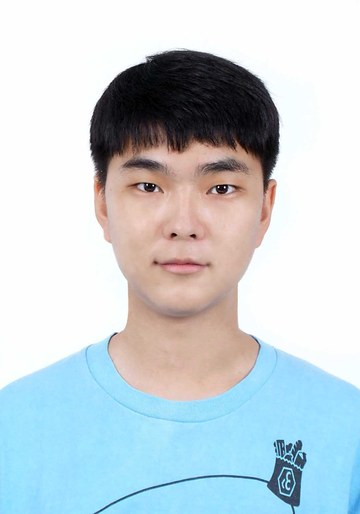
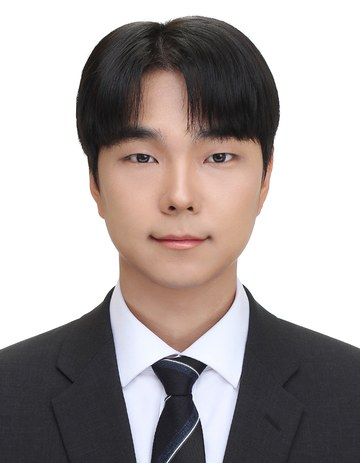
증명사진 교체, 활동 시간순 재구성

diff --git a/index.html b/index.html
@@ -48,7 +48,12 @@
   .head h3{min-width:0; overflow-wrap:break-word}
   h3{font-size:18px; margin:0; letter-spacing:-0.02em}
   .when{font-size:13.5px; color:var(--muted); white-space:nowrap}
-  .role{font-size:14px; color:var(--accent); margin-top:3px}
+  .role{font-size:14px; color:var(--muted); margin-top:3px}
+  .repo{display:inline-flex; align-items:center; gap:5px; margin-top:9px;
+        font-size:13.5px; color:var(--accent); text-decoration:none;
+        border:1px solid var(--line); border-radius:6px; padding:3px 10px}
+  .repo:hover{border-color:var(--accent)}
+  .repo svg{width:13px; height:13px; fill:currentColor; flex:0 0 13px}
   .item p{margin:9px 0 0; overflow-wrap:break-word}
   ul{margin:9px 0 0; padding-left:19px}
   li{margin-bottom:5px}
@@ -78,7 +83,7 @@
 <div class="wrap">
 
 <header>
-  <img class="photo" src="photo.jpg" alt="전성민" width="360" height="514">
+  <img class="photo" src="photo.jpg" alt="전성민" width="360" height="463">
   <div class="bio">
     <h1>전성민</h1>
     <div class="edu">
@@ -101,59 +106,38 @@
 <p class="intro">
 서비스를 만드는 일과 그 서비스를 멈추지 않게 하는 일을 함께 해 왔습니다.
 3인 팀에서 인증·보안과 배포 인프라를 맡아 AWS에서 6개월째 돌아가는 백엔드를 유지하고 있고,
-그 전에는 확산 모델로 생성 결과를 원하는 만큼만 바꾸도록 제약하는 문제와,
+그 전에는 확산 모델로 두 실제 사진 사이에서 구조는 두고 정체성만 바꾸는 문제와,
 모바일 엣지 환경에서 모델을 가볍게 만들어 지연을 줄이는 연구를 다뤘습니다.
 </p>
 
-<h2>프로젝트</h2>
+<h2>활동</h2>
 
 <div class="item">
   <div class="head">
-    <h3>Cellfie — 개인화 피부 코칭 서비스</h3>
-    <span class="when">2026.05 – 진행 중</span>
+    <h3>Multiphysics Structure &amp; Systems Engineering Lab · 학부 인턴</h3>
+    <span class="when">2023.12 – 2024.03</span>
   </div>
-  <div class="role">AI·SW Maestro · 3인 · 담당: 인증·보안 / 배포·운영 인프라 / DB 스키마</div>
-  <p>
-    사진 한 장과 문진으로 피부를 분석해 성분·루틴을 추천하는 모바일 서비스입니다.
-    AWS EC2에 Docker Compose로 다섯 개 컨테이너를 올려 운영 중이고, 저는 모델을 만드는 쪽이 아니라
-    그 모델이 계속 응답하게 만드는 쪽을 맡았습니다.
-  </p>
+  <div class="role">서울대학교</div>
   <ul>
-    <li>JWT 발급·검증, 소셜 로그인 3종, 보안 헤더 필터를 단독 작성. 예외 발생 시 인증을 통과하던 필터를 fail-closed로 수정</li>
-    <li>blue-green 무중단 배포 — 헬스체크를 통과하지 못한 버전은 트래픽을 받지 않습니다. 이 관문이 스키마 오류 두 건을 사용자 도달 전에 차단했습니다</li>
-    <li>GitHub Actions에서 SSH 대신 AWS SSM으로 배포를 트리거. 보안 그룹의 22번 포트를 열지 않기 위한 선택</li>
-    <li>매일 백업 후 복원 무결성까지 검증, 요청 단위 추적 ID로 사용자 제보를 로그에서 역추적</li>
-    <li>초기 21개 테이블 마이그레이션 설계. 운영 프로파일을 스키마 검증 모드로 고정해 코드와 DB가 어긋나면 서버가 기동하지 않도록 구성</li>
+    <li>수문·구조 데이터를 입력으로 홍수 피해 규모를 예측하는 머신러닝 모델 제안</li>
   </ul>
   <div class="chips">
-    <span class="chip">Java</span><span class="chip">Spring Boot</span><span class="chip">MySQL</span>
-    <span class="chip">Flyway</span><span class="chip">AWS EC2 · S3 · SSM</span><span class="chip">Docker</span>
-    <span class="chip">nginx</span><span class="chip">GitHub Actions</span><span class="chip">FastAPI</span>
+    <span class="chip">Python</span><span class="chip">머신러닝</span>
   </div>
 </div>
 
 <div class="item">
   <div class="head">
-    <h3>생성형 AI 이미지 편집 파이프라인</h3>
-    <span class="when">2025.10 – 2025.12</span>
+    <h3>Networked Computing Lab · 학부 인턴</h3>
+    <span class="when">2024.07 – 2025.02</span>
   </div>
-  <p>
-    실제 사진에서 특정 개념 하나만 교체하고 나머지는 그대로 두는 Stable Diffusion 편집 파이프라인입니다.
-    프롬프트만으로 편집하면 대상 객체와 함께 배경과 구도까지 흔들리는데, 객체의 정체성과 그 객체가 놓인
-    공간 구조가 잠재 공간에서 분리되어 있지 않기 때문입니다.
-  </p>
+  <div class="role">서울대학교</div>
   <ul>
-    <li>Textual Inversion으로 교체할 개념의 임베딩을 학습해 정체성을 별도 토큰으로 분리</li>
-    <li>Null-text Inversion으로 원본을 되돌릴 수 있는 잠재 궤적을 확보해 공간 구조를 보존</li>
-    <li>SLERP 잠재 공간 보간과 어텐션 마스킹으로 편집 영향 범위를 대상 영역에 한정</li>
+    <li>모바일 엣지 GPU 워크로드를 대상으로 모델 이진화 — 연산 정밀도를 낮추며 정확도 손실과 지연 변화를 측정</li>
+    <li>여러 기기를 묶는 모바일 클러스터링, GPU 선점 스케줄링 실험</li>
   </ul>
-  <p>
-    모델이 무언가를 생성하게 만드는 일은 어렵지 않았습니다. 어려웠던 것은 생성 범위를 신뢰할 수 있을 만큼
-    좁히는 일과, 좁혀졌는지를 판단할 기준을 세우는 일이었습니다.
-  </p>
   <div class="chips">
-    <span class="chip">Python</span><span class="chip">PyTorch</span><span class="chip">Diffusers</span>
-    <span class="chip">Diffusion</span><span class="chip">Attention Masking</span>
+    <span class="chip">모델 경량화</span><span class="chip">GPU 스케줄링</span><span class="chip">엣지 추론</span>
   </div>
 </div>
 
@@ -162,20 +146,16 @@
     <h3>Scheme 인터프리터</h3>
     <span class="when">2024.12</span>
   </div>
-  <p>
-    자료구조 과제로 C++에서 Scheme 인터프리터를 1,000줄 규모로 구현했습니다.
-    입력을 토큰으로 쪼개고, 심볼은 체이닝 해시 테이블에, 리스트는 좌·우 자식 인덱스를 가진 노드 배열에 담아
-    cons 구조를 만든 뒤 eval이 그 배열을 재귀로 타고 내려갑니다.
-  </p>
-  <p>
-    가장 애를 먹은 것은 리스트 안에 리스트가 연달아 오는 입력이었습니다. 재귀로 안쪽을 읽고 돌아오면
-    그 서브트리와 다음 노드를 잇는 링크가 비어 있는데, 재귀 안에서는 뒤에 형제가 더 올지 알 수 없어
-    그 자리에서 채울 수 없었습니다. 돌아온 직후라는 사실을 플래그로 남겨 두었다가 다음 여는 괄호에서
-    이전 부모의 링크를 채우도록 해결했습니다.
-  </p>
+  <div class="role">C++ · 약 1,000줄</div>
+  <ul>
+    <li>토크나이저 → 체이닝 해시 심볼 테이블 → 좌·우 자식 인덱스 노드 배열의 cons 구조 → 재귀 eval</li>
+    <li>리스트가 연달아 중첩될 때 형제 노드를 잇는 링크가 비는 문제를, 재귀 복귀 시점을 플래그로 남겨 다음 여는 괄호에서 부모 링크를 채우는 방식으로 해결</li>
+    <li>define, cons, symbol?, number?, null? 구현 및 입력 문장 복원 출력</li>
+  </ul>
   <div class="chips">
     <span class="chip">C++</span><span class="chip">해시 테이블</span><span class="chip">재귀 파서</span>
   </div>
+  <a class="repo" href="https://github.com/jsm5792/Data_Structure"><svg viewBox="0 0 16 16" aria-hidden="true"><path d="M8 0C3.58 0 0 3.58 0 8c0 3.54 2.29 6.53 5.47 7.59.4.07.55-.17.55-.38 0-.19-.01-.82-.01-1.49-2.01.37-2.53-.49-2.69-.94-.09-.23-.48-.94-.82-1.13-.28-.15-.68-.52-.01-.53.63-.01 1.08.58 1.23.82.72 1.21 1.87.87 2.33.66.07-.52.28-.87.51-1.07-1.78-.2-3.64-.89-3.64-3.95 0-.87.31-1.59.82-2.15-.08-.2-.36-1.02.08-2.12 0 0 .67-.21 2.2.82.64-.18 1.32-.27 2-.27s1.36.09 2 .27c1.53-1.04 2.2-.82 2.2-.82.44 1.1.16 1.92.08 2.12.51.56.82 1.27.82 2.15 0 3.07-1.87 3.75-3.65 3.95.29.25.54.73.54 1.48 0 1.07-.01 1.93-.01 2.2 0 .21.15.46.55.38A8.01 8.01 0 0 0 16 8c0-4.42-3.58-8-8-8z"/></svg>Data_Structure</a>
 </div>
 
 <div class="item">
@@ -183,37 +163,53 @@
     <h3>Quantum AI Contest — 1위</h3>
     <span class="when">2025.07 – 2025.08</span>
   </div>
-  <p>
-    FashionMNIST 분류를 위한 하이브리드 양자·고전 모델을 설계했습니다. 고전 섀도우와 이항정리를 이용해
-    양자 회로 측정으로부터 임의 유리수 α에 대한 Rényi 엔트로피를 추정하고 검증했습니다.
-  </p>
-</div>
-
-<h2>연구 경험</h2>
-
-<div class="item">
-  <div class="head">
-    <h3>Networked Computing Lab · 학부 인턴</h3>
-    <span class="when">2024.07 – 2025.02</span>
+  <ul>
+    <li>FashionMNIST 분류를 위한 하이브리드 양자·고전 모델 설계</li>
+    <li>고전 섀도우와 이항정리를 이용해 양자 회로 측정으로부터 임의 유리수 α에 대한 Rényi 엔트로피 추정 및 검증</li>
+  </ul>
+  <div class="chips">
+    <span class="chip">PyTorch</span><span class="chip">양자 회로</span><span class="chip">엔트로피 추정</span>
   </div>
-  <div class="role">서울대학교</div>
-  <p>
-    모바일 엣지 GPU에서 딥러닝 워크로드를 돌릴 때의 지연과 신뢰성 문제를 다뤘습니다.
-    모델 이진화로 연산 정밀도를 낮추며 정확도 손실을 어디까지 감수할 수 있는지 측정하고,
-    모바일 클러스터링과 GPU 선점 기법을 함께 살폈습니다. 벤치마크에서 괜찮아 보이던 선택이
-    실부하에서 무너지는 경우를 반복해 보았고, 그 차이를 재는 습관이 여기서 생겼습니다.
-  </p>
 </div>
 
 <div class="item">
   <div class="head">
-    <h3>Multiphysics Structure &amp; Systems Engineering Lab · 학부 인턴</h3>
-    <span class="when">2023.12 – 2024.03</span>
+    <h3>생성형 AI 이미지 편집 파이프라인</h3>
+    <span class="when">2025.10 – 2025.12</span>
   </div>
-  <div class="role">서울대학교</div>
-  <p>수문·구조 데이터를 입력으로 홍수 피해 규모를 예측하는 머신러닝 모델을 제안했습니다.</p>
+  <div class="role">4인 팀 프로젝트 · Stable Diffusion v1.4</div>
+  <ul>
+    <li>두 실제 사진에서 소스의 구조(포즈·배경·배치)는 유지한 채 객체 정체성만 참조 이미지의 것으로 교체 — 공간 마스크도 모델 파인튜닝도 없이 텍스트 조건만으로</li>
+    <li><b>Stage 1</b> 마스크드 Textual Inversion — 참조 객체의 정체성을 pseudo-token 임베딩으로 학습. 배경까지 섞이는 문제를 16×16 cross-attention 맵을 임계값 0.3으로 이진화한 마스크로 손실을 공간 가중해 해결</li>
+    <li><b>Stage 2</b> Null-text Inversion — 소스를 CFG 없이 DDIM 역변환한 뒤 타임스텝마다 널텍스트 임베딩을 최적화해 구조를 보존하는 궤적 확보</li>
+    <li><b>Stage 3</b> Soft NTI + Prompt-to-Prompt — 역변환 latent와 랜덤 노이즈를 SLERP로 보간(λ=0.6)해 편집 여지를 만들고, cross-attention은 앞 40% 스텝에서 교체, self-attention은 앞 20%에서 주입해 위치와 레이아웃 유지</li>
+    <li>하이퍼파라미터 24개 조합 그리드 서치, ControlNet과 비교 평가. 이미지 쌍당 2–3분(A100)</li>
+  </ul>
+  <div class="chips">
+    <span class="chip">Python</span><span class="chip">PyTorch</span><span class="chip">Diffusers</span><span class="chip">Stable Diffusion</span><span class="chip">Textual Inversion</span><span class="chip">Null-text Inversion</span><span class="chip">Prompt-to-Prompt</span>
+  </div>
+  <a class="repo" href="https://github.com/jsm5792/DL-project"><svg viewBox="0 0 16 16" aria-hidden="true"><path d="M8 0C3.58 0 0 3.58 0 8c0 3.54 2.29 6.53 5.47 7.59.4.07.55-.17.55-.38 0-.19-.01-.82-.01-1.49-2.01.37-2.53-.49-2.69-.94-.09-.23-.48-.94-.82-1.13-.28-.15-.68-.52-.01-.53.63-.01 1.08.58 1.23.82.72 1.21 1.87.87 2.33.66.07-.52.28-.87.51-1.07-1.78-.2-3.64-.89-3.64-3.95 0-.87.31-1.59.82-2.15-.08-.2-.36-1.02.08-2.12 0 0 .67-.21 2.2.82.64-.18 1.32-.27 2-.27s1.36.09 2 .27c1.53-1.04 2.2-.82 2.2-.82.44 1.1.16 1.92.08 2.12.51.56.82 1.27.82 2.15 0 3.07-1.87 3.75-3.65 3.95.29.25.54.73.54 1.48 0 1.07-.01 1.93-.01 2.2 0 .21.15.46.55.38A8.01 8.01 0 0 0 16 8c0-4.42-3.58-8-8-8z"/></svg>DL-project</a>
 </div>
 
+<div class="item">
+  <div class="head">
+    <h3>Cellfie — 개인화 피부 코칭 서비스</h3>
+    <span class="when">2026.05 – 진행 중</span>
+  </div>
+  <div class="role">AI·SW Maestro · 3인 · 담당: 인증·보안 / 배포·운영 인프라 / DB 스키마</div>
+  <ul>
+    <li>JWT 발급·검증, 소셜 로그인 3종(Google·Kakao·Naver), 보안 헤더 필터 단독 작성. 인증 필터를 fail-closed로 전환</li>
+    <li>blue-green 무중단 배포 — 헬스체크를 통과하지 못하면 트래픽을 전환하지 않음. 스키마 오류 2건을 배포 단계에서 차단</li>
+    <li>GitHub Actions에서 AWS SSM으로 배포 트리거 — 보안 그룹의 SSH 포트를 열지 않기 위한 구성</li>
+    <li>일 단위 백업 후 복원 무결성 검증, 요청 단위 추적 ID를 로그 전 줄에 부착</li>
+    <li>초기 21개 테이블 마이그레이션 설계, 운영 프로파일을 스키마 validate로 고정</li>
+    <li>ONNX 모델을 별도 컨테이너로 서빙하고 가중치를 볼륨 마운트해 재빌드 없이 교체, 추천 서비스 장애 시 폴백 경로 제공</li>
+  </ul>
+  <div class="chips">
+    <span class="chip">Java</span><span class="chip">Spring Boot</span><span class="chip">MySQL</span><span class="chip">Flyway</span><span class="chip">AWS EC2 · S3 · SSM</span><span class="chip">Docker</span><span class="chip">nginx</span><span class="chip">GitHub Actions</span><span class="chip">ONNX</span>
+  </div>
+  <a class="repo" href="https://github.com/jsm5792/cellfie-contrib"><svg viewBox="0 0 16 16" aria-hidden="true"><path d="M8 0C3.58 0 0 3.58 0 8c0 3.54 2.29 6.53 5.47 7.59.4.07.55-.17.55-.38 0-.19-.01-.82-.01-1.49-2.01.37-2.53-.49-2.69-.94-.09-.23-.48-.94-.82-1.13-.28-.15-.68-.52-.01-.53.63-.01 1.08.58 1.23.82.72 1.21 1.87.87 2.33.66.07-.52.28-.87.51-1.07-1.78-.2-3.64-.89-3.64-3.95 0-.87.31-1.59.82-2.15-.08-.2-.36-1.02.08-2.12 0 0 .67-.21 2.2.82.64-.18 1.32-.27 2-.27s1.36.09 2 .27c1.53-1.04 2.2-.82 2.2-.82.44 1.1.16 1.92.08 2.12.51.56.82 1.27.82 2.15 0 3.07-1.87 3.75-3.65 3.95.29.25.54.73.54 1.48 0 1.07-.01 1.93-.01 2.2 0 .21.15.46.55.38A8.01 8.01 0 0 0 16 8c0-4.42-3.58-8-8-8z"/></svg>cellfie-contrib</a>
+</div>
 <h2>기술</h2>
 <div class="item">
   <ul>
@@ -226,13 +222,9 @@
 
 <h2>링크</h2>
 <div class="links">
-  <a class="link" href="https://github.com/jsm5792/cellfie-contrib">
-    <b>cellfie-contrib</b>
-    <span>Cellfie에서 제가 단독으로 작성한 파일 53개와 커밋 이력</span>
-  </a>
   <a class="link" href="https://github.com/jsm5792">
     <b>github.com/jsm5792</b>
-    <span>자료구조 · 알고리즘 C++ 저장소를 포함한 전체 목록</span>
+    <span>위 저장소와 자료구조 · 알고리즘 C++ 저장소 전체</span>
   </a>
   <a class="link" href="mailto:jsm5792@snu.ac.kr">
     <b>jsm5792@snu.ac.kr</b>
